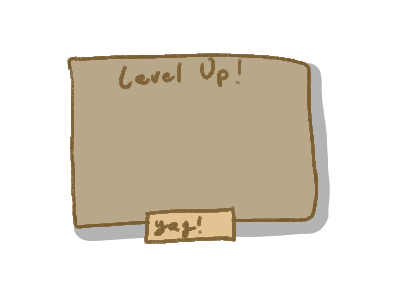
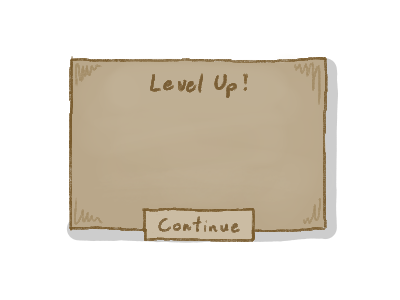
Updated level up screen

Changed region(s): [[0.15, 0.15, 0.87, 0.84]]

diff --git a/levelProgress.js b/levelProgress.js
@@ -39,11 +39,12 @@ const clipboardText = new gameify.Text(
 );
 
 const levelUpImage = new gameify.Image("images/levelUpScreen.png");
+const levelUpHoverImage = new gameify.Image("images/levelUpScreen_hover.png");
 const levelUpSprite = new gameify.Sprite(0, 0, levelUpImage);
 levelUpSprite.scale = 2;
 
 const levelUpTextStyle = new gameify.TextStyle('DefaultFont', 16, 'black');
-const levelUpText = new gameify.Text('You leveled up!', 200, 200, levelUpTextStyle)
+const levelUpText = new gameify.Text('You leveled up!', 225, 230, levelUpTextStyle)
 levelUpTextStyle.lineHeight = 1.5;
 
 
@@ -388,13 +389,16 @@ export const levelProgress = {
         // Yay! button on level up screen
         if (levelUpModeActive
             && mousePos.x > 290 && mousePos.y > 420
-            && mousePos.x < 473 && mousePos.y < 481
+            && mousePos.x < 505 && mousePos.y < 478
         ) {
             screen.element.style.cursor = 'pointer';
+            levelUpSprite.setImage(levelUpHoverImage);
 
             if (screen.mouse.eventJustHappened('left', /*capture=*/true)) {
                 exitLevelUpMode();
             }
+        } else if (levelUpModeActive) {
+            levelUpSprite.setImage(levelUpImage);
         }
 
         clipboardText.string = getLevelText(currentLevel);
